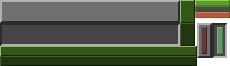
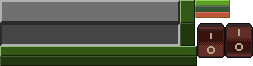
added legs.

Changed region(s): [[0.7, 0.0, 1.0, 1.0], [0.8826, 0.0, 1.0, 0.2727]]

diff --git a/src/unit.cpp b/src/unit.cpp
@@ -29,12 +29,12 @@ void item::load_sprites(){
 	sprites["inactive_button"].setPosition(34, 0);
 
 	sprites["power_off"] = sf::Sprite(item::texture,
-		sf::IntRect(197, 23, 15, 35));
-	sprites["power_off"].setPosition(0, 0);
+		sf::IntRect(197, 23, 28, 35));
+	sprites["power_off"].setPosition(-13, 0);
 
 	sprites["power_on"] = sf::Sprite(item::texture,
-		sf::IntRect(212, 23, 15, 35));
-	sprites["power_on"].setPosition(0, 0);
+		sf::IntRect(225, 23, 28, 35));
+	sprites["power_on"].setPosition(-13, 0);
 
 	sprites["active_hotkey_screen"] = sf::Sprite(item::texture,
 		sf::IntRect(180, 0, 15, 23));
@@ -153,6 +153,15 @@ item_shape item::get_draw_shape(const mech* owner, client *client,
 	return shape;
 }
 
+legs::legs(std::string name)
+	: item(name, 1), modes{{0.3f, 2}, {1.0f, 10}, {3.0f, 70}}{
+
+	this->speed[(int)terrain_en::RIVER] = 0;
+	this->speed[(int)terrain_en::MOUNTAIN] = 0.5;
+	this->speed[(int)terrain_en::PLAIN] = 2;
+	this->speed[(int)terrain_en::PALM] = 2;
+}
+
 namespace{
 
 sf::Sprite create_sprite_f(sf::Texture *texture,
@@ -177,7 +186,7 @@ unit::unit(uint32_t cell_index_, uint32_t vision_range_)
 }
 
 mech::mech(uint32_t cell_index_)
-	: unit(cell_index_, 4)/*, weapon("Rocket", 15000)*/,
+	: unit(cell_index_, 4),
 	energy_text("energy_value", get_font(), 22),
 	heat_text("heat_value", get_font(), 22){
 
@@ -189,12 +198,27 @@ mech::mech(uint32_t cell_index_)
 		create_sprite_f(&unit::textures[filename],
 		60, 60, 0, 0));
 
-	this->speed[(int)terrain_en::RIVER] = 0;
-	this->speed[(int)terrain_en::MOUNTAIN] = 0.5;
-	this->speed[(int)terrain_en::PLAIN] = 2;
-	this->speed[(int)terrain_en::PALM] = 2;
+	this->left_arm.emplace_back(std::make_shared<item>("Rocket", 15000));
+	this->right_arm.emplace_back(std::make_shared<item>("Rocket", 15000));
+	this->torso.emplace_back(std::make_shared<legs>("Legs"));
+	this->refresh();
+}
 
-	torso.emplace_back(std::make_shared<item>("Rocket", 15000));
+void mech::refresh(){
+	this->legs_ptr = nullptr;
+	for(auto& item : this->left_arm){
+
+	}
+
+	for(auto& item : this->right_arm){
+
+	}
+
+	for(auto& item : this->torso){
+		if(item->is_legs()){
+			this->legs_ptr = item->is_legs();
+		}
+	}
 }
 
 item_shape mech::get_status_shape(client *client, const sf::Vector2f& position) const{
@@ -268,8 +292,8 @@ item_shape mech::prepare_shape(client *client) const{
 		}
 	};
 	get_zone_shape(this->torso, sf::Vector2f{-100, -200});
-	get_zone_shape(this->left_arm, sf::Vector2f{-200, -200});
-	get_zone_shape(this->right_arm, sf::Vector2f{0, -200});
+	get_zone_shape(this->left_arm, sf::Vector2f{-400, -200});
+	get_zone_shape(this->right_arm, sf::Vector2f{200, -200});
 
 	return item_shape;
 }
@@ -294,6 +318,17 @@ bool mech::interact_gui(game_info *info, client *client){
 	return false;
 }
 
+float mech::move_calculate(float time, terrain_en ter_type) noexcept{
+	float &energy_available = this->current_energy;
+	float energy_necessary = this->legs_ptr->energy_necessary(time / 10000);
+	float rate = 1;
+	if(energy_available < energy_necessary){
+		rate = energy_available / energy_necessary;
+	}
+	energy_available -= energy_necessary * rate;
+	return this->get_speed(ter_type) * time * rate;
+}
+
 void unit::open_vision(game_info *info, uint32_t player_index){
 	this->vision_indeces = open_adjacent(info, player_index,
 		this->cell_index, this->vision_range);
@@ -304,7 +339,7 @@ void unit::unit_update_move(game_info *info, uint32_t player_index, float time){
 		return;
 
 	terrain_en terr_type = info->get_cell(this->path.front()).ter.type;
-	this->path_progress += time * this->get_speed(terr_type);
+	this->path_progress += move_calculate(time, terr_type);
 
 	if((this->cell_index == this->path.back())
 		|| (info->get_cell(this->path.front()).unit != nullptr) ){

diff --git a/src/unit.hpp b/src/unit.hpp
@@ -55,7 +55,9 @@ inline item_shape& operator+=(item_shape& left, const item_shape& right){
     return left;
 }
 
-class item{
+class legs;
+
+class item : std::enable_shared_from_this<item>{
 	static sf::Texture texture;
 	static std::map<std::string, sf::Sprite> sprites;
 
@@ -63,6 +65,8 @@ class item{
 /*	static inline const sf::Sprite& get_sprite(std::string name) const noexcept{
 		return sprites[name]};*/
 public:
+	inline virtual legs* is_legs() noexcept {return nullptr;};
+
 	item(std::string name, float delay);
 
 	inline const bool& get_power_status() const noexcept{ return power_status;};
@@ -99,8 +103,31 @@ private:
 
 class legs : public item{
 public:
+	legs(std::string name);
+	legs* is_legs() noexcept override {	return this;};
+//	void update(mech* owner, float time);
 
+	inline float get_speed(terrain_en ter_type) const noexcept{
+		return this->speed[(int)ter_type] * ((float)2 / 10000)
+			* modes[(int)current_mode].rate;};
+
+	inline float energy_necessary(float time) const noexcept{
+		return time * modes[(int)current_mode].energy;};
 private:
+	float speed[(int)terrain_en::END];
+
+	enum class mode_name{
+		fast = 0,
+		medium = 1,
+		slow = 2,
+		size = 3
+	};
+	mode_name current_mode = mode_name::medium;
+	struct mode{
+		float rate;
+		float energy;
+	};
+	mode modes[(int)mode_name::size];
 };
 
 struct unit : std::enable_shared_from_this<unit>{
@@ -127,6 +154,8 @@ struct unit : std::enable_shared_from_this<unit>{
 private:
 	void unit_update_move(game_info *info, uint32_t player_index, float time);
 	inline virtual void update_v(game_info *info, uint32_t player_index, float time){return ;};
+	virtual float move_calculate(float time, terrain_en ter_type) noexcept{
+		return this->get_speed(ter_type) * time;};
 };
 
 class mech : public unit{
@@ -137,7 +166,7 @@ public:
 	mech(uint32_t cell_index);
 
 	inline float get_speed(terrain_en ter_type) const noexcept override
-		{return this->speed[(int)ter_type] * ((float)2 / 10000);};
+		{return legs_ptr ? legs_ptr->get_speed(ter_type) : 0;};
 
 	void draw_gui(game_info *info, client *client);
 	bool interact_gui(game_info *info, client *client);
@@ -152,16 +181,20 @@ private:
 	float heat_capacity = 300;
 	mutable sf::Text heat_text;
 
+	legs *legs_ptr = nullptr;
 	std::list<std::shared_ptr<item>> left_arm;
 	std::list<std::shared_ptr<item>> torso;
 	std::list<std::shared_ptr<item>> right_arm;
 
-	float speed[(int)terrain_en::END];
+//	float speed[(int)terrain_en::END];
 
 	item_shape get_status_shape(client *client, const sf::Vector2f& position) const;
 	void update_v(game_info *info, uint32_t player_index, float time);
 
 	item_shape prepare_shape(client *client) const;
+	void refresh();
+
+	float move_calculate(float time, terrain_en ter_type) noexcept override;
 };
 
 #endif
